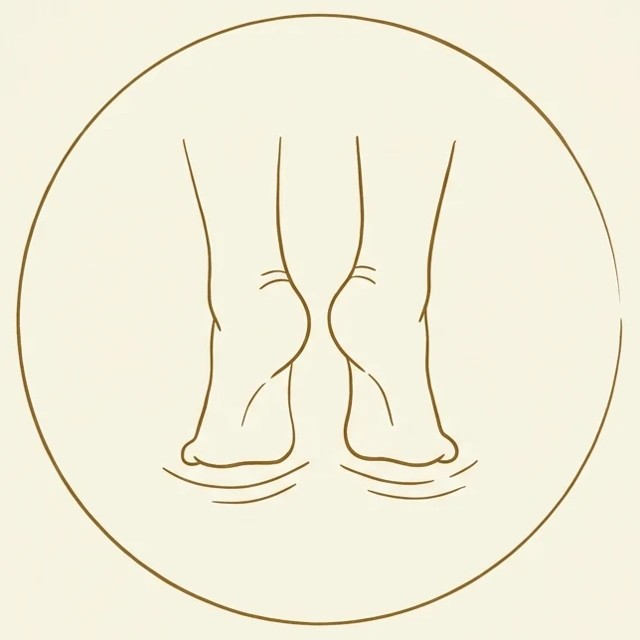
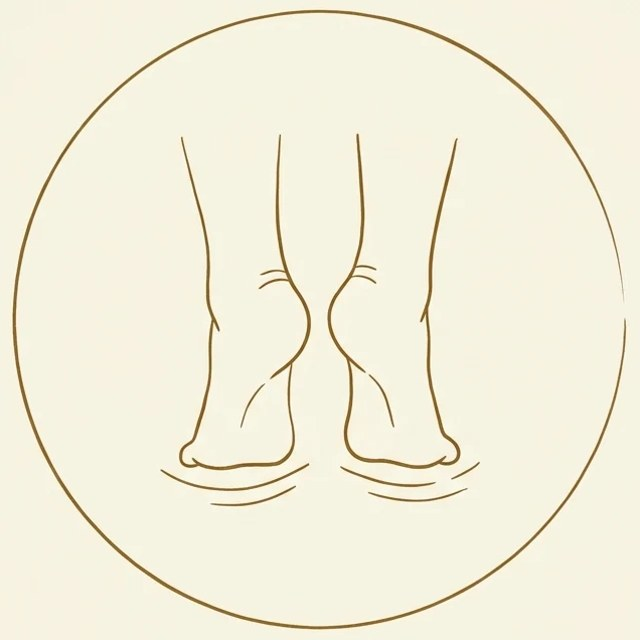
Deck: Gemini line illustrations on all 7 cards

diff --git a/toolkit/breath/index.html b/toolkit/breath/index.html
@@ -95,31 +95,31 @@ footer a{color:var(--brown);font-weight:700}
   <p class="count" id="count"></p>
   <div class="deck"><div class="track" id="track">
 <div class="slide" data-i="0"><div class="flip" tabindex="0" aria-label="Soles of the Feet: tap to flip">
-  <div class="face front"><div class="num">01 / 07</div><div class="ic art"><img src="art/01-soles.jpg" alt="Line drawing of two feet"></div><h2>Soles of the Feet</h2><div class="tags"><span class="tag t-ground">Grounding</span><span class="tag t-release">Releasing tension</span></div><div class="hint">tap to flip ↻</div></div>
+  <div class="face front"><div class="num">01 / 07</div><div class="ic art"><img src="art/01-soles.jpg?v=2" alt="Line drawing: two feet"></div><h2>Soles of the Feet</h2><div class="tags"><span class="tag t-ground">Grounding</span><span class="tag t-release">Releasing tension</span></div><div class="hint">tap to flip ↻</div></div>
   <div class="face back"><h3>Soles of the Feet</h3><div class="meta">standing · 2–3 min · from Thomas Hübl</div><div class="tags"><span class="tag t-ground">Grounding</span><span class="tag t-release">Releasing tension</span></div><ol><li>Stand and bring your attention to the soles of your feet.</li><li>Notice where your weight sits: the balls, the toes, the heels.</li><li>Let it settle evenly, and notice what changes in your posture.</li></ol><p class="why">For feeling supported and present.</p><div class="hint">tap to flip back ↺</div></div>
 </div></div>
 <div class="slide" data-i="1"><div class="flip" tabindex="0" aria-label="9 Purifying Breaths: tap to flip">
-  <div class="face front"><div class="num">02 / 07</div><div class="ic"><svg viewBox="0 0 64 64"><path d="M8 24h30a7 7 0 1 0-7-7"/><path d="M8 34h42a7 7 0 1 1-7 7"/><path d="M8 44h22"/></svg></div><h2>9 Purifying Breaths</h2><div class="tags"><span class="tag t-clear">Clearing</span><span class="tag t-calm">Calming</span><span class="tag t-focus">Focusing</span></div><div class="hint">tap to flip ↻</div></div>
+  <div class="face front"><div class="num">02 / 07</div><div class="ic art"><img src="art/02-purifying.jpg?v=2" alt="Line drawing: alternate-nostril breathing"></div><h2>9 Purifying Breaths</h2><div class="tags"><span class="tag t-clear">Clearing</span><span class="tag t-calm">Calming</span><span class="tag t-focus">Focusing</span></div><div class="hint">tap to flip ↻</div></div>
   <div class="face back"><h3>9 Purifying Breaths</h3><div class="meta">seated or standing · 3–4 min · Tibetan Bön</div><div class="tags"><span class="tag t-clear">Clearing</span><span class="tag t-calm">Calming</span><span class="tag t-focus">Focusing</span></div><ol><li>Three rounds of three breaths, alternating nostrils.</li><li>Breathe in clear, fresh air; pause gently.</li><li>Breathe out what you no longer need.</li></ol><p class="why">For clearing the mind and releasing heavy energy. <a href="https://youtu.be/zZsdxUjXI48" style="color:var(--brown);font-weight:700;font-style:normal">Watch guide 1 →</a> &nbsp;<a href="https://youtu.be/7P6276uNQY0" style="color:var(--brown);font-weight:700;font-style:normal">Watch guide 2 →</a></p><div class="hint">tap to flip back ↺</div></div>
 </div></div>
 <div class="slide" data-i="2"><div class="flip" tabindex="0" aria-label="Belly–Heart Breath: tap to flip">
-  <div class="face front"><div class="num">03 / 07</div><div class="ic"><svg viewBox="0 0 64 64"><path d="M32 30c-4-7-16-7-16 2 0 8 16 16 16 16s16-8 16-16c0-9-12-9-16-2z"/><path d="M20 52c3 4 8 6 12 6s9-2 12-6"/></svg></div><h2>Belly–Heart Breath</h2><div class="tags"><span class="tag t-calm">Calming</span><span class="tag t-release">Releasing tension</span></div><div class="hint">tap to flip ↻</div></div>
+  <div class="face front"><div class="num">03 / 07</div><div class="ic art"><img src="art/03-bellyheart.jpg?v=2" alt="Line drawing: hand on heart and belly"></div><h2>Belly–Heart Breath</h2><div class="tags"><span class="tag t-calm">Calming</span><span class="tag t-release">Releasing tension</span></div><div class="hint">tap to flip ↻</div></div>
   <div class="face back"><h3>Belly–Heart Breath</h3><div class="meta">seated · 3–4 min</div><div class="tags"><span class="tag t-calm">Calming</span><span class="tag t-release">Releasing tension</span></div><ol><li>One hand on your belly, one on your heart.</li><li>Breathe into the belly, then up into the heart.</li><li>Let the out-breath be slow and soft.</li></ol><p class="why">For stress, anxiety and a busy mind.</p><div class="hint">tap to flip back ↺</div></div>
 </div></div>
 <div class="slide" data-i="3"><div class="flip" tabindex="0" aria-label="Standing Like a Tree: tap to flip">
-  <div class="face front"><div class="num">04 / 07</div><div class="ic"><svg viewBox="0 0 64 64"><path d="M32 58V30"/><path d="M32 40l-9-7M32 36l8-6"/><path d="M32 30c-12 0-18-7-15-14 2-6 9-8 15-6 6-2 13 0 15 6 3 7-3 14-15 14z"/><path d="M22 58h20"/></svg></div><h2>Standing Like a Tree</h2><div class="tags"><span class="tag t-ground">Grounding</span><span class="tag t-focus">Focusing</span><span class="tag t-release">Releasing tension</span></div><div class="hint">tap to flip ↻</div></div>
+  <div class="face front"><div class="num">04 / 07</div><div class="ic art"><img src="art/04-tree.jpg?v=2" alt="Line drawing: standing like a tree"></div><h2>Standing Like a Tree</h2><div class="tags"><span class="tag t-ground">Grounding</span><span class="tag t-focus">Focusing</span><span class="tag t-release">Releasing tension</span></div><div class="hint">tap to flip ↻</div></div>
   <div class="face back"><h3>Standing Like a Tree</h3><div class="meta">standing · 3–5 min · Shaolin Zhan Zhuang</div><div class="tags"><span class="tag t-ground">Grounding</span><span class="tag t-focus">Focusing</span><span class="tag t-release">Releasing tension</span></div><ol><li>Stand with soft knees, feet hip-width apart.</li><li>Round your arms as if hugging a tree.</li><li>Breathe low and stay still. Let the tension drain down.</li></ol><p class="why">For a clear mind and steady focus.</p><div class="hint">tap to flip back ↺</div></div>
 </div></div>
 <div class="slide" data-i="4"><div class="flip" tabindex="0" aria-label="Shake Out: tap to flip">
-  <div class="face front"><div class="num">05 / 07</div><div class="ic"><svg viewBox="0 0 64 64"><path d="M32 12v10M20 16l5 8M44 16l-5 8"/><circle cx="32" cy="32" r="5"/><path d="M32 37v10M32 47l-8 10M32 47l8 10M32 40l-10-4M32 40l10-4"/><path d="M12 30c-2 2-2 6 0 8M52 30c2 2 2 6 0 8"/></svg></div><h2>Shake Out</h2><div class="tags"><span class="tag t-energy">Energizing</span><span class="tag t-release">Releasing tension</span></div><div class="hint">tap to flip ↻</div></div>
+  <div class="face front"><div class="num">05 / 07</div><div class="ic art"><img src="art/05-shake.jpg?v=2" alt="Line drawing: shaking out"></div><h2>Shake Out</h2><div class="tags"><span class="tag t-energy">Energizing</span><span class="tag t-release">Releasing tension</span></div><div class="hint">tap to flip ↻</div></div>
   <div class="face back"><h3>Shake Out</h3><div class="meta">standing · 1–2 min</div><div class="tags"><span class="tag t-energy">Energizing</span><span class="tag t-release">Releasing tension</span></div><ol><li>Shake your hands, then arms, shoulders and legs.</li><li>Let the whole body shake loose for a minute.</li><li>Stop, stand still, and feel the tingle.</li></ol><p class="why">For shaking off the day and waking up.</p><div class="hint">tap to flip back ↺</div></div>
 </div></div>
 <div class="slide" data-i="5"><div class="flip" tabindex="0" aria-label="Antler Twist: tap to flip">
-  <div class="face front"><div class="num">06 / 07</div><div class="ic"><svg viewBox="0 0 64 64"><path d="M16 16c10 4 14 12 16 24M48 16c-10 4-14 12-16 24"/><path d="M32 40v16"/><path d="M22 10l-6 6M42 10l6 6"/></svg></div><h2>Antler Twist</h2><div class="tags"><span class="tag t-release">Releasing tension</span></div><div class="hint">tap to flip ↻</div></div>
+  <div class="face front"><div class="num">06 / 07</div><div class="ic art"><img src="art/06-antler.jpg?v=2" alt="Line drawing: antler twist"></div><h2>Antler Twist</h2><div class="tags"><span class="tag t-release">Releasing tension</span></div><div class="hint">tap to flip ↻</div></div>
   <div class="face back"><h3>Antler Twist</h3><div class="meta">seated or standing · 2 min · Human Garage</div><div class="tags"><span class="tag t-release">Releasing tension</span></div><ol><li>A gentle fascia release for the neck, shoulders and spine.</li><li>Follow along with the short video below.</li></ol><p class="why"><a href="https://youtu.be/mR-Owhn0ugo" style="color:var(--brown);font-weight:700">Watch the 2-minute video →</a></p><div class="hint">tap to flip back ↺</div></div>
 </div></div>
 <div class="slide" data-i="6"><div class="flip" tabindex="0" aria-label="4-7-8 Breath: tap to flip">
-  <div class="face front"><div class="num">07 / 07</div><div class="ic"><svg viewBox="0 0 64 64"><path d="M40 12a20 20 0 1 0 12 30 16 16 0 0 1-12-30z"/><path d="M48 14v6M45 17h6"/></svg></div><h2>4-7-8 Breath</h2><div class="tags"><span class="tag t-calm">Calming</span></div><div class="hint">tap to flip ↻</div></div>
+  <div class="face front"><div class="num">07 / 07</div><div class="ic art"><img src="art/07-478.jpg?v=3" alt="Line drawing: slow out-breath"></div><h2>4-7-8 Breath</h2><div class="tags"><span class="tag t-calm">Calming</span></div><div class="hint">tap to flip ↻</div></div>
   <div class="face back"><h3>4-7-8 Breath</h3><div class="meta">seated · 2–3 min</div><div class="tags"><span class="tag t-calm">Calming</span></div><ol><li>Breathe in through the nose for 4.</li><li>Hold gently for 7.</li><li>Breathe out slowly through the mouth for 8. Repeat four times.</li></ol><p class="why">For winding down, and for sleep.</p><div class="hint">tap to flip back ↺</div></div>
 </div></div>
   </div>
